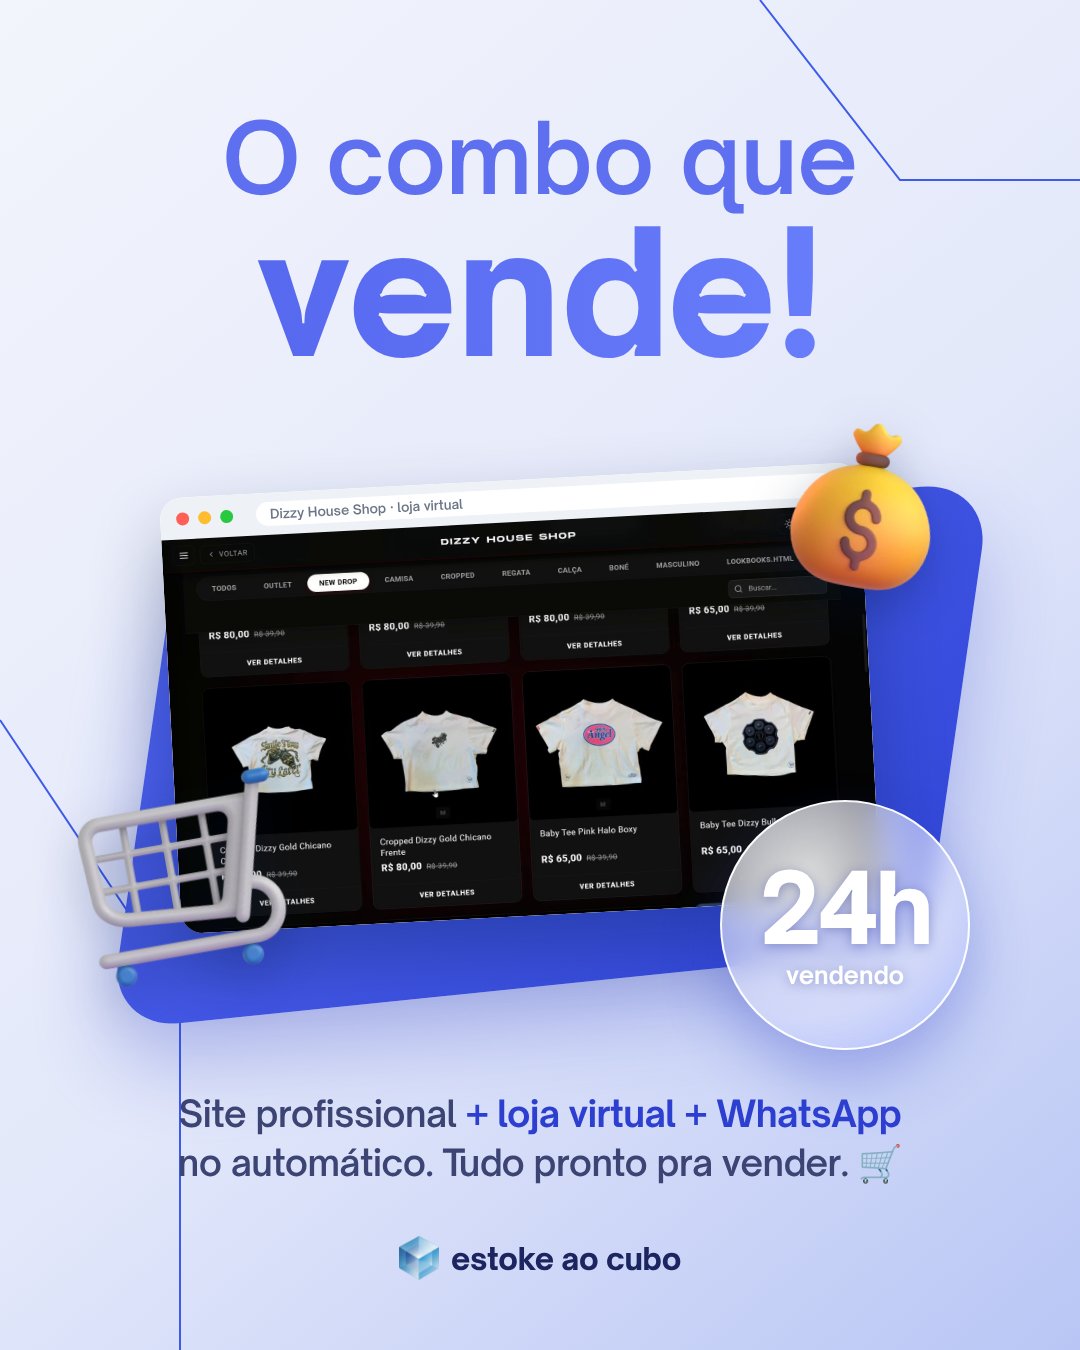
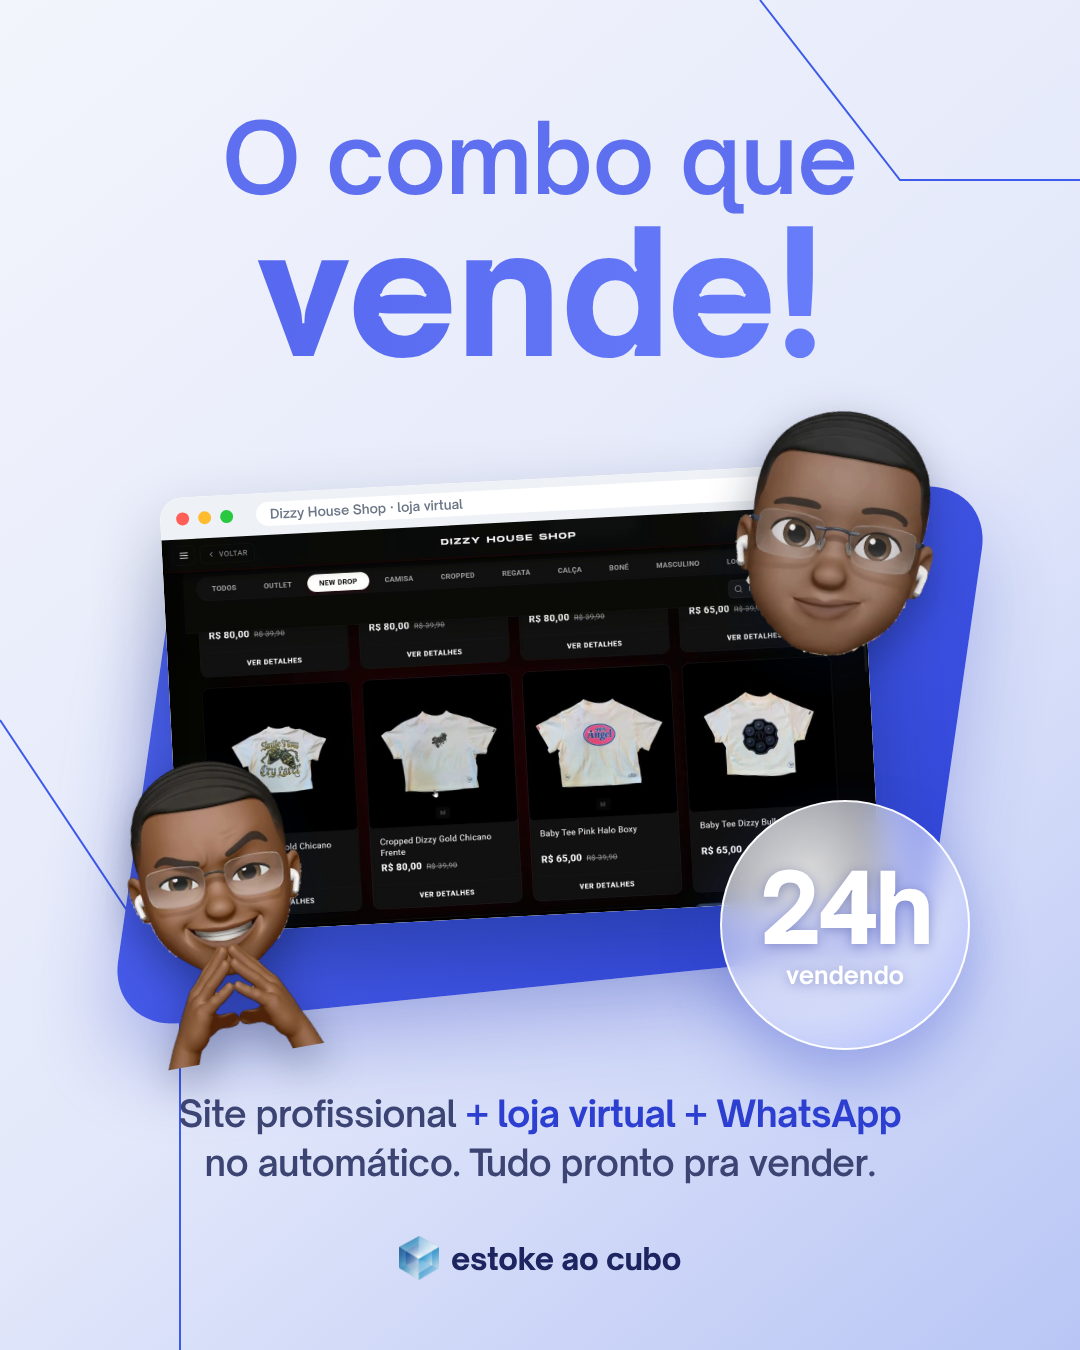
Instagram posts: use the Emoji Primordial faces instead of Fluent emojis
Cut the studio-background faces to transparent (posts-insta/cutout_faces.py,
validated against the six original transparent PNGs) and place them in every
post; drop the Fluent emoji files and inline system emojis.

Claude-Session: https://claude.ai/code/session_01HSoz4raEAsVYZ6N1uJ5Mp7

Changed region(s): [[0.0611, 0.56, 0.3056, 0.8089], [0.6722, 0.28, 0.8861, 0.4978], [0.1528, 0.84, 0.825, 0.8711]]

diff --git a/posts-insta/posts.html b/posts-insta/posts.html
@@ -8,7 +8,7 @@
   (produto com fundo claro, ciclo em azul escuro, card de dados em vidro, foto com
   camadas de vidro, lançamento de site com notebook).
   Prints: gravações e capturas dos sites feitos pela Estoke ao Cubo (img/sites).
-  Emojis 3D: Fluent Emoji da Microsoft, licença MIT (img/emoji).
+  Emojis: as feições do Emoji Primordial da Estoke ao Cubo (EMOJI_PRIMORDIAL), recortadas em img/face por cutout_faces.py.
   Gerar os PNGs: node posts-insta/render.cjs  →  posts-insta/out/
 -->
 <style>
@@ -24,7 +24,7 @@
   body { background: #777; font-family: "Open Sauce Sans", system-ui, sans-serif; display: flex; flex-direction: column; align-items: center; gap: 40px; padding: 40px 0; }
   .post { width: 1080px; height: 1350px; position: relative; overflow: hidden; flex: none; }
   .abs { position: absolute; }
-  .emo { position: absolute; filter: drop-shadow(0 18px 24px rgba(0, 20, 60, .28)); }
+  .emo { position: absolute; filter: drop-shadow(0 16px 22px rgba(0, 15, 40, .35)); }
   .disp { font-family: "EAC Display", "Open Sauce Sans", sans-serif; text-transform: uppercase; }
   .brand { display: flex; align-items: center; gap: 12px; font-weight: 800; font-size: 30px; letter-spacing: -0.01em; }
   .brand img { width: 40px; height: 44px; }
@@ -69,8 +69,8 @@
     <div style="width: 54px; height: 6px; border-radius: 3px; background: #4FB3E8; margin-bottom: 26px;"></div>
     Rápido no celular, bonito de verdade e com orçamento direto no WhatsApp.
   </div>
-  <img class="emo" src="img/emoji/rocket.webp" style="width: 170px; right: 70px; top: 520px; transform: rotate(8deg);">
-  <img class="emo" src="img/emoji/sparkles.webp" style="width: 110px; left: 60px; top: 600px;">
+  <img class="emo" src="img/face/03_sorriso_largo_feliz.webp" style="width: 221px; right: 70px; top: 520px; transform: rotate(8deg);">
+  <img class="emo" src="img/face/06_piscadinha_wink_direito.webp" style="width: 143px; left: 60px; top: 600px;">
 </section>
 
 <!-- 02 · O combo que vende (ref. Volutech) -->
@@ -88,14 +88,14 @@
     <div class="bar"><i></i><i></i><i></i><span>Dizzy House Shop · loja virtual</span></div>
     <img class="shot" src="img/sites/dizzy-shop.jpg">
   </div>
-  <img class="emo" src="img/emoji/cart.webp" style="width: 230px; left: 70px; top: 760px; transform: rotate(-10deg);">
-  <img class="emo" src="img/emoji/moneybag.webp" style="width: 190px; right: 120px; top: 410px; transform: rotate(10deg);">
+  <img class="emo" src="img/face/35_estrategista_maos_piramide.webp" style="width: 299px; left: 70px; top: 760px; transform: rotate(-10deg);">
+  <img class="emo" src="img/face/04_sorriso_maroto_smirk_dir.webp" style="width: 247px; right: 120px; top: 410px; transform: rotate(10deg);">
   <div class="abs" style="right: 110px; top: 800px; width: 250px; height: 250px; border-radius: 50%; background: radial-gradient(circle at 35% 30%, rgba(255,255,255,.85), rgba(225,230,255,.55) 60%, rgba(120,140,255,.45)); border: 2px solid rgba(255,255,255,.95); backdrop-filter: blur(14px); box-shadow: 0 30px 60px rgba(40,60,200,.3); display: flex; flex-direction: column; align-items: center; justify-content: center; color: #fff; text-shadow: 0 2px 12px rgba(30,40,140,.35);">
     <div style="font-weight: 800; font-size: 96px; letter-spacing: -0.04em; line-height: 1;">24h</div>
     <div style="font-weight: 700; font-size: 24px; margin-top: 4px;">vendendo</div>
   </div>
   <div class="abs" style="top: 1090px; width: 100%; text-align: center; font-size: 36px; line-height: 1.35; color: #3B4472; letter-spacing: -0.015em;">
-    Site profissional <b style="color: #2D3FD0;">+ loja virtual + WhatsApp</b><br>no automático. Tudo pronto pra vender. 🛒
+    Site profissional <b style="color: #2D3FD0;">+ loja virtual + WhatsApp</b><br>no automático. Tudo pronto pra vender.
   </div>
   <div class="abs brand" style="bottom: 70px; width: 100%; justify-content: center; color: #1D2560;"><img src="img/cube-logo.webp">estoke ao cubo</div>
 </section>
@@ -123,10 +123,10 @@
     <div style="font-weight: 600; font-size: 28px; margin-top: 18px; letter-spacing: .02em; color: #CFE2FF;">a Estoke ao Cubo resolve</div>
     <img src="img/cube-logo.webp" style="width: 56px; margin-top: 18px;">
   </div>
-  <div class="pill" style="left: 90px; top: 380px; background: linear-gradient(180deg, #2F8CFF, #1767E0); color: #04122A; box-shadow: 0 10px 30px rgba(20,110,255,.45);"><img src="img/emoji/thinking.webp">Sem site</div>
-  <div class="pill" style="right: 40px; top: 790px; background: linear-gradient(180deg, #2F8CFF, #1767E0); color: #04122A; box-shadow: 0 10px 30px rgba(20,110,255,.45);"><img src="img/emoji/eyes.webp">Cliente não te acha</div>
-  <div class="pill" style="left: 120px; top: 960px; background: linear-gradient(180deg, #2F8CFF, #1767E0); color: #04122A; box-shadow: 0 10px 30px rgba(20,110,255,.45);"><img src="img/emoji/flyingmoney.webp">Venda perdida</div>
-  <div class="abs" style="bottom: 120px; width: 100%; text-align: center; color: #fff; font-size: 34px; font-weight: 600; letter-spacing: -0.01em;">Quebre o ciclo: site que aparece e vende. 👉 chama no direct</div>
+  <div class="pill" style="left: 90px; top: 380px; background: linear-gradient(180deg, #2F8CFF, #1767E0); color: #04122A; box-shadow: 0 10px 30px rgba(20,110,255,.45);"><img src="img/face/16_pensativo_olhando_cima.webp">Sem site</div>
+  <div class="pill" style="right: 40px; top: 790px; background: linear-gradient(180deg, #2F8CFF, #1767E0); color: #04122A; box-shadow: 0 10px 30px rgba(20,110,255,.45);"><img src="img/face/10_desconfiado_side_eye_dir.webp">Cliente não te acha</div>
+  <div class="pill" style="left: 120px; top: 960px; background: linear-gradient(180deg, #2F8CFF, #1767E0); color: #04122A; box-shadow: 0 10px 30px rgba(20,110,255,.45);"><img src="img/face/14_triste_desapontado.webp">Venda perdida</div>
+  <div class="abs" style="bottom: 120px; width: 100%; text-align: center; color: #fff; font-size: 34px; font-weight: 600; letter-spacing: -0.01em;">Quebre o ciclo: site que aparece e vende. Chama no direct!</div>
 </section>
 
 <!-- 04 · Card 24/7 (ref. Conversion rate) -->
@@ -140,15 +140,15 @@
       <path d="M0 400 C 120 360, 200 430, 300 400 C 360 380, 360 120, 430 120 C 500 120, 500 380, 580 390 C 660 400, 720 370, 800 380" fill="none" stroke="url(#ln)" stroke-width="9"/>
       <circle cx="430" cy="120" r="30" fill="#8FB8FF" opacity=".35"/><circle cx="430" cy="120" r="17" fill="#E7F0FF"/>
     </svg>
-    <div class="abs" style="left: 470px; top: 170px; display: flex; align-items: center; gap: 10px; padding: 12px 18px; border-radius: 16px; background: rgba(255,255,255,.14); border: 1px solid rgba(255,255,255,.25); color: #fff; font-weight: 700; font-size: 24px;"><img src="img/emoji/moneybag.webp" style="width: 40px;">Novo pedido · 03:15</div>
+    <div class="abs" style="left: 470px; top: 170px; display: flex; align-items: center; gap: 10px; padding: 12px 18px; border-radius: 16px; background: rgba(255,255,255,.14); border: 1px solid rgba(255,255,255,.25); color: #fff; font-weight: 700; font-size: 24px;"><img src="img/face/03_sorriso_largo_feliz.webp" style="width: 40px;">Novo pedido · 03:15</div>
     <div class="abs" style="top: 640px; width: 100%; text-align: center; color: #fff;">
       <div style="font-size: 38px; color: #C9D6EA; font-weight: 600;">Seu site vendendo</div>
       <div style="font-weight: 700; font-size: 220px; letter-spacing: -0.05em; line-height: 1; margin-top: 6px;">24/7</div>
       <div style="font-size: 26px; color: #9FB0CB; margin-top: 10px;">inclusive enquanto você dorme</div>
     </div>
   </div>
-  <img class="emo" src="img/emoji/moon.webp" style="width: 150px; left: 40px; top: 30px; transform: rotate(-12deg); filter: drop-shadow(0 0 40px rgba(255,210,90,.35));">
-  <img class="emo" src="img/emoji/sleeping.webp" style="width: 150px; right: 70px; top: 1080px; filter: drop-shadow(0 20px 30px rgba(0,0,0,.5));">
+  <img class="emo" src="img/face/12_surpreso_uau_chocado.webp" style="width: 195px; left: 40px; top: 30px; transform: rotate(-12deg); filter: drop-shadow(0 0 40px rgba(255,210,90,.35));">
+  <img class="emo" src="img/face/08_olhos_fechados_zen.webp" style="width: 195px; right: 70px; top: 1080px; filter: drop-shadow(0 20px 30px rgba(0,0,0,.5));">
   <div class="abs brand" style="bottom: 60px; left: 0; width: 100%; justify-content: center; color: #fff;"><img src="img/cube-logo.webp">estoke ao cubo</div>
 </section>
 
@@ -162,29 +162,29 @@
   <div class="browser" style="left: 170px; top: 510px; width: 740px;"><div class="bar"><i></i><i></i><i></i><span>Kairós Streetwear</span></div><img class="shot" src="img/sites/kairos.jpg"></div>
   <div class="browser" style="left: 60px; top: 800px; width: 420px; transform: rotate(-5deg);"><div class="bar"><i></i><i></i><i></i><span>Dizzy House Studio</span></div><img class="shot" src="img/sites/dizzy-enter.jpg"></div>
   <div class="browser" style="right: 50px; top: 840px; width: 420px; transform: rotate(5deg);"><div class="bar"><i></i><i></i><i></i><span>K-Dust</span></div><img class="shot" src="img/sites/kdust.jpg"></div>
-  <img class="emo" src="img/emoji/fire.webp" style="width: 150px; left: 70px; top: 330px; transform: rotate(-10deg);">
-  <div class="abs" style="left: 70px; bottom: 90px; color: #fff; font-size: 32px; font-weight: 600;">Petrópolis · RJ 📍</div>
-  <div class="abs" style="right: 70px; bottom: 80px; color: #fff; font-size: 34px; font-weight: 800; display: flex; align-items: center; gap: 10px;">orçamento no direct <img src="img/emoji/pointing.webp" style="width: 52px;"></div>
+  <img class="emo" src="img/face/09_sobrancelha_arqueada_rock.webp" style="width: 195px; left: 70px; top: 330px; transform: rotate(-10deg);">
+  <div class="abs" style="left: 70px; bottom: 90px; color: #fff; font-size: 32px; font-weight: 600;">Petrópolis · RJ</div>
+  <div class="abs" style="right: 70px; bottom: 80px; color: #fff; font-size: 34px; font-weight: 800; display: flex; align-items: center; gap: 10px;">orçamento no direct <img src="img/face/07_piscadinha_wink_esquerdo.webp" style="width: 52px;"></div>
 </section>
 
 <!-- 06 · Feitos pela Estoke ao Cubo (portfólio) -->
 <section class="post" id="06-feitos-pela-estoke" style="background: linear-gradient(180deg, #F5F9FD, #DCEBF8);">
   <div class="abs" style="top: 64px; width: 100%; text-align: center;">
     <div style="font-weight: 800; font-size: 28px; letter-spacing: .14em; color: var(--blue);">PORTFÓLIO</div>
-    <div style="font-weight: 800; font-size: 80px; line-height: 1; letter-spacing: -0.045em; color: var(--ink); margin-top: 14px;">Feitos pela<br>Estoke ao Cubo <img src="img/emoji/fire.webp" style="width: 84px; vertical-align: -6px;"></div>
+    <div style="font-weight: 800; font-size: 80px; line-height: 1; letter-spacing: -0.045em; color: var(--ink); margin-top: 14px;">Feitos pela<br>Estoke ao Cubo <img src="img/face/35_estrategista_maos_piramide.webp" style="width: 84px; vertical-align: -6px;"></div>
   </div>
   <div class="abs portfolio" style="left: 110px; top: 330px; width: 860px; display: grid; grid-template-columns: 1fr 1fr; gap: 30px 30px;">
     <!-- cada card: print + nome + emoji -->
-    <div style="position: relative;"><div class="browser" style="position: relative; width: 100%;"><div class="bar"><i></i><i></i><i></i><span>Dizzy House Shop</span></div><img class="shot" src="img/sites/dizzy-shop.jpg"></div><img class="emo" src="img/emoji/crown.webp" style="width: 90px; right: -16px; top: -26px; transform: rotate(10deg);"></div>
-    <div style="position: relative;"><div class="browser" style="position: relative; width: 100%;"><div class="bar"><i></i><i></i><i></i><span>LCS Transporte e Turismo</span></div><img class="shot" src="img/sites/lcs-hero.jpg"></div><img class="emo" src="img/emoji/bus.webp" style="width: 90px; right: -16px; top: -26px; transform: rotate(10deg);"></div>
-    <div style="position: relative;"><div class="browser" style="position: relative; width: 100%;"><div class="bar"><i></i><i></i><i></i><span>Loja Arteiro</span></div><img class="shot" src="img/sites/arteiro.jpg"></div><img class="emo" src="img/emoji/palette.webp" style="width: 90px; right: -16px; top: -26px; transform: rotate(10deg);"></div>
-    <div style="position: relative;"><div class="browser" style="position: relative; width: 100%;"><div class="bar"><i></i><i></i><i></i><span>K-Dust</span></div><img class="shot" src="img/sites/kdust.jpg"></div><img class="emo" src="img/emoji/fire.webp" style="width: 90px; right: -16px; top: -26px; transform: rotate(10deg);"></div>
-    <div style="position: relative;"><div class="browser" style="position: relative; width: 100%;"><div class="bar"><i></i><i></i><i></i><span>Ruppel Streetwear</span></div><img class="shot" src="img/sites/ruppel.jpg"></div><img class="emo" src="img/emoji/bolt.webp" style="width: 90px; right: -16px; top: -26px; transform: rotate(10deg);"></div>
-    <div style="position: relative;"><div class="browser" style="position: relative; width: 100%;"><div class="bar"><i></i><i></i><i></i><span>Kairós Streetwear</span></div><img class="shot" src="img/sites/kairos.jpg"></div><img class="emo" src="img/emoji/gem.webp" style="width: 90px; right: -16px; top: -26px; transform: rotate(10deg);"></div>
+    <div style="position: relative;"><div class="browser" style="position: relative; width: 100%;"><div class="bar"><i></i><i></i><i></i><span>Dizzy House Shop</span></div><img class="shot" src="img/sites/dizzy-shop.jpg"></div><img class="emo" src="img/face/04_sorriso_maroto_smirk_dir.webp" style="width: 90px; right: -16px; top: -26px; transform: rotate(10deg);"></div>
+    <div style="position: relative;"><div class="browser" style="position: relative; width: 100%;"><div class="bar"><i></i><i></i><i></i><span>LCS Transporte e Turismo</span></div><img class="shot" src="img/sites/lcs-hero.jpg"></div><img class="emo" src="img/face/32_angulo_3d_25_dir_sorriso.webp" style="width: 90px; right: -16px; top: -26px; transform: rotate(10deg);"></div>
+    <div style="position: relative;"><div class="browser" style="position: relative; width: 100%;"><div class="bar"><i></i><i></i><i></i><span>Loja Arteiro</span></div><img class="shot" src="img/sites/arteiro.jpg"></div><img class="emo" src="img/face/12_surpreso_uau_chocado.webp" style="width: 90px; right: -16px; top: -26px; transform: rotate(10deg);"></div>
+    <div style="position: relative;"><div class="browser" style="position: relative; width: 100%;"><div class="bar"><i></i><i></i><i></i><span>K-Dust</span></div><img class="shot" src="img/sites/kdust.jpg"></div><img class="emo" src="img/face/09_sobrancelha_arqueada_rock.webp" style="width: 90px; right: -16px; top: -26px; transform: rotate(10deg);"></div>
+    <div style="position: relative;"><div class="browser" style="position: relative; width: 100%;"><div class="bar"><i></i><i></i><i></i><span>Ruppel Streetwear</span></div><img class="shot" src="img/sites/ruppel.jpg"></div><img class="emo" src="img/face/33_inclinado_desconfiado_original.webp" style="width: 90px; right: -16px; top: -26px; transform: rotate(10deg);"></div>
+    <div style="position: relative;"><div class="browser" style="position: relative; width: 100%;"><div class="bar"><i></i><i></i><i></i><span>Kairós Streetwear</span></div><img class="shot" src="img/sites/kairos.jpg"></div><img class="emo" src="img/face/03_sorriso_largo_feliz.webp" style="width: 90px; right: -16px; top: -26px; transform: rotate(10deg);"></div>
   </div>
   <div class="abs" style="bottom: 70px; left: 60px; right: 60px; display: flex; align-items: center; justify-content: space-between; color: var(--ink);">
     <div class="brand"><img src="img/cube-logo.webp">estoke ao cubo</div>
-    <div style="font-size: 30px; font-weight: 700; color: var(--slate);">o próximo pode ser o seu 👀</div>
+    <div style="font-size: 30px; font-weight: 700; color: var(--slate);">o próximo pode ser o seu</div>
   </div>
 </section>
 
@@ -204,8 +204,8 @@
     <div style="width: 54px; height: 6px; border-radius: 3px; background: #fff; margin-bottom: 24px;"></div>
     Streetwear original. Drop 01 com lista VIP e cupom pra quem chegar primeiro.
   </div>
-  <img class="emo" src="img/emoji/tshirt.webp" style="width: 170px; right: 60px; top: 460px; transform: rotate(14deg);">
-  <img class="emo" src="img/emoji/bolt.webp" style="width: 120px; left: 70px; top: 590px; transform: rotate(-8deg);">
+  <img class="emo" src="img/face/12_surpreso_uau_chocado.webp" style="width: 221px; right: 60px; top: 460px; transform: rotate(14deg);">
+  <img class="emo" src="img/face/31_angulo_3d_45_dir_tres_quartos.webp" style="width: 156px; left: 70px; top: 590px; transform: rotate(-8deg);">
 </section>
 
 <!-- 08 · Lançamento: Arteiro (ref. Volutech, com o print no centro) -->
@@ -217,11 +217,11 @@
     <div style="font-weight: 800; font-size: 150px; line-height: 1; background: linear-gradient(90deg, #F6C66B, #FFE9B8, #E7A93F); -webkit-background-clip: text; background-clip: text; color: transparent;">vem aí</div>
   </div>
   <div class="browser" style="left: 140px; top: 470px; width: 800px;"><div class="bar"><i></i><i></i><i></i><span>Loja Arteiro · arte popular brasileira</span></div><img class="shot" src="img/sites/arteiro.jpg"></div>
-  <img class="emo" src="img/emoji/palette.webp" style="width: 200px; left: 50px; top: 360px; transform: rotate(-12deg);">
-  <img class="emo" src="img/emoji/hourglass.webp" style="width: 150px; right: 70px; top: 880px; transform: rotate(10deg);">
-  <img class="emo" src="img/emoji/sparkles.webp" style="width: 110px; right: 110px; top: 380px;">
+  <img class="emo" src="img/face/34_inclinado_curioso_esquerda.webp" style="width: 260px; left: 50px; top: 360px; transform: rotate(-12deg);">
+  <img class="emo" src="img/face/16_pensativo_olhando_cima.webp" style="width: 195px; right: 70px; top: 880px; transform: rotate(10deg);">
+  <img class="emo" src="img/face/06_piscadinha_wink_direito.webp" style="width: 143px; right: 110px; top: 380px;">
   <div class="abs" style="top: 1060px; width: 100%; text-align: center; font-size: 36px; line-height: 1.35; color: #E9DCC6; letter-spacing: -0.015em;">
-    Arte popular brasileira e marcenaria nobre.<br><b style="color: #F6C66B;">A loja online da Arteiro está chegando.</b> ✨
+    Arte popular brasileira e marcenaria nobre.<br><b style="color: #F6C66B;">A loja online da Arteiro está chegando.</b>
   </div>
   <div class="abs" style="bottom: 70px; width: 100%; text-align: center; font-size: 28px; font-weight: 700; color: #B8A88C;">desde 1978 · Itaipava / RJ</div>
 </section>

diff --git a/posts-insta/cutout_faces.py b/posts-insta/cutout_faces.py
@@ -1,0 +1,59 @@
+#!/usr/bin/env python3
+"""Recorta as feições do Emoji Primordial (fundo de estúdio #D1D1D1 liso) para PNG/WebP transparente.
+
+Só 6 das 36 feições transparentes estão no repositório (EMOJI_PRIMORDIAL/01_...), então as
+outras saem daqui: o fundo é exatamente (209, 209, 209); remove a região dessa cor ligada à
+borda e suaviza a borda pela distância de cor (com a cor "despremultiplicada" do cinza).
+A feição 36 fica de fora (lista "Não usar" do EMOJI_PRIMORDIAL/README.md).
+Uso: python3 posts-insta/cutout_faces.py   →  posts-insta/img/face/<nome>.webp (400×400)
+"""
+import glob, os
+import numpy as np
+from PIL import Image
+from scipy import ndimage
+
+ROOT = os.path.dirname(os.path.dirname(os.path.abspath(__file__)))
+SRC = os.path.join(ROOT, "EMOJI_PRIMORDIAL", "02_FEICOES_FUNDO_PADRAO_STUDIO")
+TRANSP = os.path.join(ROOT, "EMOJI_PRIMORDIAL", "01_FEICOES_PNG_TRANSPARENTE")
+OUT = os.path.join(ROOT, "posts-insta", "img", "face")
+BG = 209.0
+SKIP = {"36_impactado_segurando_coracao"}
+
+
+def cutout(path):
+    a = np.asarray(Image.open(path).convert("RGB")).astype(np.float32)
+    dist = np.abs(a - BG).max(-1)
+    lab, _ = ndimage.label(dist <= 3)
+    border = set(np.unique(np.r_[lab[0], lab[-1], lab[:, 0], lab[:, -1]])) - {0}
+    bg = np.isin(lab, list(border))
+    # faixa de borda: até 3px do fundo, alfa pela distância de cor
+    near = ndimage.binary_dilation(bg, iterations=3) & ~bg
+    alpha = np.ones(dist.shape, np.float32)
+    alpha[bg] = 0
+    alpha[near] = np.clip((dist[near] - 8) / 45.0, 0, 1)
+    # tira o fio claro que sobra no contorno: 1px de erosão só na faixa de borda
+    eroded = ndimage.minimum_filter(alpha, size=3)
+    alpha = np.where(near | ndimage.binary_dilation(near), np.minimum(alpha, (alpha + eroded) / 2), alpha)
+    al = np.maximum(alpha, 1e-3)[..., None]
+    rgb = np.clip((a - (1 - al) * BG) / al, 0, 255)
+    return Image.fromarray(np.dstack([rgb, alpha * 255]).astype(np.uint8), "RGBA")
+
+
+def main():
+    os.makedirs(OUT, exist_ok=True)
+    for f in sorted(glob.glob(os.path.join(SRC, "*.png"))):
+        name = os.path.basename(f)[:-4]
+        if name in SKIP:
+            continue
+        orig = os.path.join(TRANSP, name + ".png")
+        im = Image.open(orig).convert("RGBA") if os.path.exists(orig) else cutout(f)
+        im = im.crop(im.getbbox()) if im.getbbox() else im
+        side = max(im.size)
+        sq = Image.new("RGBA", (side, side), (0, 0, 0, 0))
+        sq.paste(im, ((side - im.width) // 2, (side - im.height) // 2))
+        sq.resize((400, 400), Image.LANCZOS).save(os.path.join(OUT, name + ".webp"), quality=92)
+    print(len(os.listdir(OUT)), "feições em", os.path.relpath(OUT, ROOT))
+
+
+if __name__ == "__main__":
+    main()

diff --git a/README.md b/README.md
@@ -30,12 +30,12 @@ Trailer da Temporada 1 em HyperFrames ("Perder um cliente e nem perceber"): ver 
 
 ## Posts do Instagram (`posts-insta/`)
 
-São 8 posts estáticos em 4:5 (1080×1350), seguindo as referências: produto em fundo claro, ciclo em azul escuro, card de dados em vidro, camadas de vidro e lançamento de site num notebook. Só aparecem os sites da Dizzy, LCS, Arteiro, K-Dust, Ruppel e Kairós. Os prints da Ruppel e da Arteiro foram tirados dos sites no ar (páginas de lançamento). Os emojis são 3D (Fluent Emoji da Microsoft, licença MIT).
+São 8 posts estáticos em 4:5 (1080×1350), seguindo as referências: produto em fundo claro, ciclo em azul escuro, card de dados em vidro, camadas de vidro e lançamento de site num notebook. Só aparecem os sites da Dizzy, LCS, Arteiro, K-Dust, Ruppel e Kairós. Os prints da Ruppel e da Arteiro foram tirados dos sites no ar (páginas de lançamento). Os emojis são as feições do Emoji Primordial (o rosto da Estoke ao Cubo). Elas são recortadas do fundo de estúdio #D1D1D1 por `posts-insta/cutout_faces.py` em `posts-insta/img/face/`, porque só 6 das 36 transparentes estão no repositório. A feição 36 fica de fora (lista "Não usar").
 
 1. `01-site-de-cara-nova`: "Seu negócio merece um site de cara nova!", com a LCS no notebook.
-2. `02-combo-que-vende`: "O combo que vende!", com a loja da Dizzy, o selo de vidro "24h", carrinho e saco de dinheiro.
+2. `02-combo-que-vende`: "O combo que vende!", com a loja da Dizzy, o selo de vidro "24h" e o rosto em "estrategista".
 3. `03-acontece-com-todo-mundo`: o ciclo "Sem site → Cliente não te acha → Venda perdida", e a Estoke ao Cubo resolve.
-4. `04-vendendo-24-7`: o card "Seu site vendendo 24/7", com o pedido às 03:15, a lua e a carinha dormindo.
+4. `04-vendendo-24-7`: o card "Seu site vendendo 24/7", com o pedido às 03:15, o rosto surpreso e o rosto de olhos fechados.
 5. `05-sites-que-vendem`: "Sites que vendem de verdade", com Kairós, Dizzy e K-Dust em camadas de vidro.
 6. `06-feitos-pela-estoke`: o portfólio com Dizzy, LCS, Arteiro, K-Dust, Ruppel e Kairós.
 7. `07-ruppel-rompa-o-padrao`: "O site da Ruppel tá na contagem regressiva!".
